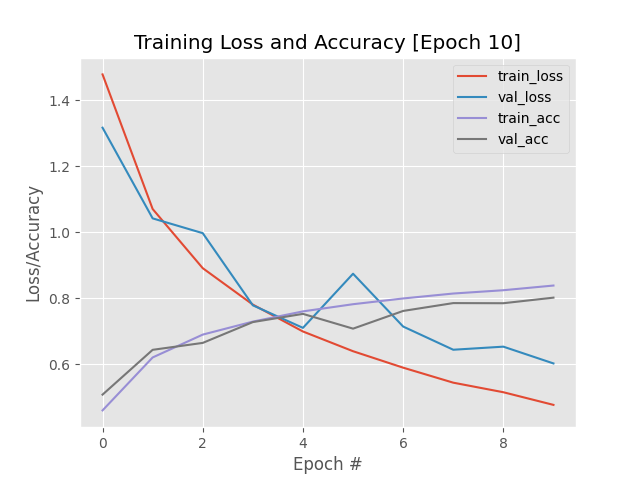
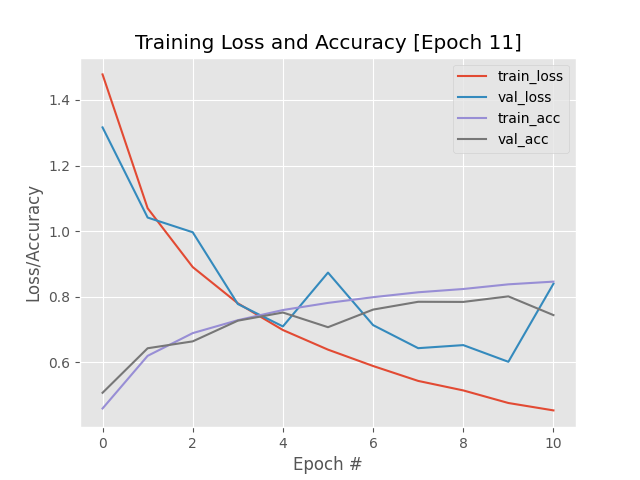
Adding file

diff --git a/GoogleNet_chapter11/deepergooglenet/train.py b/GoogleNet_chapter11/deepergooglenet/train.py
@@ -6,6 +6,7 @@ from processor.simplepreprocessor import SimplePreprocessor
 from processor.meanpreprocessor import MeanPreprocessor
 from processor.image_to_array_preprocessor import ImageToArrayPreprocessor
 from processor.hdf5_dataset_generator import HDF5DatasetGenerator
+from processor.training_monitor import TrainingMonitor
 # need to import EpochCheckpoint too
 from deeper_googlenet import DeeperGoogLeNet 
 from keras.preprocessing.image import ImageDataGenerator
@@ -48,7 +49,7 @@ else:
 
 
 callbacks = [
-EpochCheckpoint(args["checkpoints"], every=5, startAt=args["start_epoch"]),
+#EpochCheckpoint(args["checkpoints"], every=5, startAt=args["start_epoch"]),
 TrainingMonitor(config.FIG_PATH, jsonPath=config.JSON_PATH, startAt=args["start_epoch"])]
 
 model.fit_generator(

diff --git a/GoogleNet_chapter11/deepergooglenet/deeper_googlenet.py b/GoogleNet_chapter11/deepergooglenet/deeper_googlenet.py
@@ -14,7 +14,7 @@ from keras import backend as K
 
 class DeeperGoogLeNet:
     @staticmethod
-    def conv_module(x, K, kx, ky, stride, chanDim, padding="same", reg=0.0005, name=None):
+    def conv_module(x, K, kX, kY, stride, chanDim, padding="same", reg=0.0005, name=None):
         (convName, bnName, actName) = (None, None, None)
         if name is not None:
             convName = name + "_conv"
